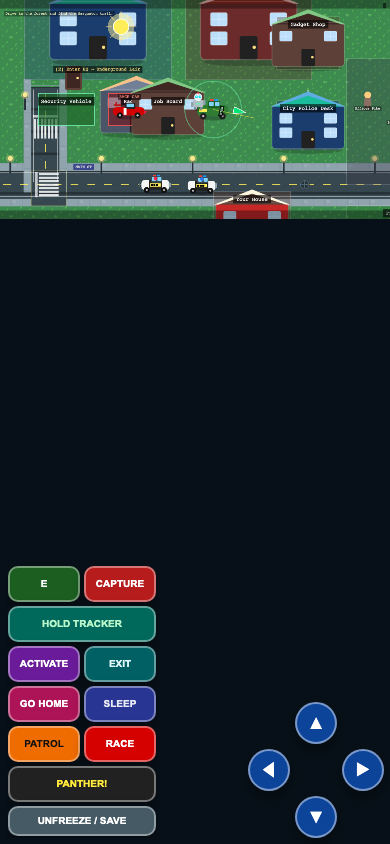
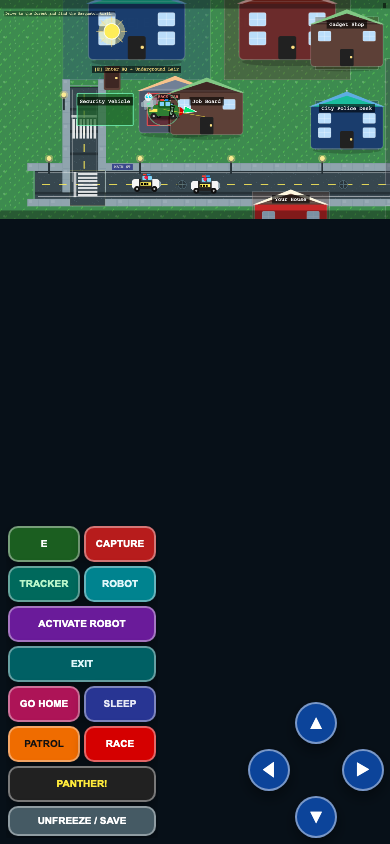
fix(v1.4.3): clear ROBOT activate that puts buddy outside
Add ROBOT / ACTIVATE ROBOT buttons that power tracker+robot and
place you outdoors with the partner already following.

Changed region(s): [[0.0, 0.0, 1.0, 0.2773], [0.0, 0.6161, 0.4, 0.8318], [0.9846, 0.2464, 1.0, 0.2773]]

diff --git a/src/game/scenes/GameScene.ts b/src/game/scenes/GameScene.ts
@@ -259,6 +259,11 @@ export class GameScene extends Phaser.Scene {
         this.mapOpen = false;
         this.doActivate();
       },
+      activateRobot: () => {
+        this.paused = false;
+        this.mapOpen = false;
+        this.doActivateRobot();
+      },
       enterCar: () => {
         this.paused = false;
         this.mapOpen = false;
@@ -2131,44 +2136,50 @@ export class GameScene extends Phaser.Scene {
   }
 
 
-  /** Activate tracker + robot partner (one tap can do both). */
-  private doActivate(): void {
-    if (!this.flags.inLair && (!this.flags.hasTracker || !this.flags.robotActive)) {
-      this.enterLair();
-    }
-
-    let didSomething = false;
+  /** Power up robot + tracker, then stand outside with robot following. */
+  private doActivateRobot(): void {
+    // Ensure gear
     if (!this.flags.hasTracker || !this.trackerHeld) {
       this.equipTracker(true);
-      this.setPhase(MissionPhase.HasTracker);
-      didSomething = true;
     }
-    if (!this.flags.robotActive) {
-      this.flags.robotActive = true;
-      this.robot.setTexture('robot_sheet', 0);
-      this.robot.setVisible(true);
-      this.robot.setPosition(this.player.x - 40, this.player.y);
-      this.robot.play('robot-idle', true);
-      this.setPhase(MissionPhase.RobotActive);
-      didSomething = true;
-    }
+    this.flags.robotActive = true;
+    this.robot.setTexture('robot_sheet', 0);
+    this.robot.play('robot-idle', true);
 
-    if (didSomething) {
-      audio.pickup();
-      this.statusLine = this.flags.inLair
-        ? 'Tracker + Robot ONLINE! Tap EXIT — robot follows you outside.'
-        : 'Tracker + Robot ONLINE! Robot is following you.';
-      if (!this.flags.inLair) this.syncRobotBesidePlayer();
-      setDomStatus(this.statusLine);
-      this.persistSave();
-      return;
-    }
+    // Always end outdoors so the player SEES the robot working
+    if (this.flags.inHouse) this.exitHouse();
+    if (this.flags.inJailBuilding) this.exitJail();
+    if (this.flags.inLair) this.exitLair();
+    // If still somehow indoors, force outdoor spawn
+    this.flags.inLair = false;
+    this.flags.inHouse = false;
+    this.flags.inJailBuilding = false;
+    this.indoorLayer.setVisible(false);
+    this.worldLayer.setVisible(true);
+    this.trailLayer.setVisible(true);
 
-    // Already online
-    if (!this.trackerHeld) this.equipTracker();
-    if (!this.flags.inLair) this.syncRobotBesidePlayer();
-    this.statusLine = 'Robot is with you! EXIT if indoors, then PATROL/RACE car.';
+    if (!this.flags.inVehicle) {
+      this.player.setPosition(SPAWN.playerOutdoor.x, SPAWN.playerOutdoor.y);
+      this.cameras.main.startFollow(this.player, true, 0.12, 0.12);
+      this.vehicle.setVisible(true);
+      if (this.raceCar) this.raceCar.setVisible(true);
+    }
+    this.sasquatch.setVisible(!this.flags.sasquatchJailed);
+    this.syncRobotBesidePlayer();
+    this.robot.setVisible(true);
+    this.robot.setDepth(9);
+    this.robot.play('robot-walk', true);
+    this.setPhase(MissionPhase.CanDrive);
+    audio.success();
+    this.statusLine = '🤖 ROBOT ACTIVATED! It is following you right now.';
     setDomStatus(this.statusLine);
+    this.persistSave();
+  }
+
+  /** Activate tracker + robot partner (one tap can do both). */
+  private doActivate(): void {
+    // Prefer the clear “robot online outside” path so activation always feels real
+    this.doActivateRobot();
   }
 
   /** Leave any indoor space so car / outdoor actions can't stack broken flags. */

diff --git a/src/ui/domOverlay.ts b/src/ui/domOverlay.ts
@@ -33,6 +33,7 @@ type EcraftApi = {
   interact?: () => void;
   capture?: () => void;
   activate?: () => void;
+  activateRobot?: () => void;
   enterCar?: () => void;
   enterRaceCar?: () => void;
   recover?: () => void;
@@ -153,6 +154,7 @@ export function installDomOverlay(): void {
     #ecraft-actions .cap { background: #b71c1c; font-size: 10px; }
     #ecraft-actions .car { background: #ef6c00; color: #111; }
     #ecraft-actions .actv { background: #6a1b9a; }
+    #ecraft-actions .bot { background: #00838f; color: #e0f7fa; font-size: 10px; }
     #ecraft-actions .race { background: #d50000; color: #fff; }
     #ecraft-actions .rec { background: #455a64; color: #fff; font-size: 10px; height: 34px; }
     #ecraft-actions .trk { background: #00695c; color: #b9f6ca; font-size: 10px; }
@@ -208,9 +210,10 @@ export function installDomOverlay(): void {
     <div id="ecraft-actions" aria-label="action buttons">
       <button type="button" class="act" id="btn-e">E</button>
       <button type="button" class="cap" id="btn-cap">CAPTURE</button>
-      <button type="button" class="trk wide" id="btn-tracker">HOLD TRACKER</button>
-      <button type="button" class="actv" id="btn-activate">ACTIVATE</button>
-      <button type="button" class="exit" id="btn-exit">EXIT</button>
+      <button type="button" class="trk" id="btn-tracker">TRACKER</button>
+      <button type="button" class="bot" id="btn-robot">ROBOT</button>
+      <button type="button" class="actv wide" id="btn-activate">ACTIVATE ROBOT</button>
+      <button type="button" class="exit wide" id="btn-exit">EXIT</button>
       <button type="button" class="home" id="btn-house">GO HOME</button>
       <button type="button" class="sleep" id="btn-sleep">SLEEP</button>
       <button type="button" class="car" id="btn-car">PATROL</button>
@@ -294,7 +297,8 @@ export function installDomOverlay(): void {
   bindAction('btn-e', 'interact', 'Interact');
   bindAction('btn-cap', 'capture', 'Capture');
   bindAction('btn-tracker', 'holdTracker', 'Holding Tracker');
-  bindAction('btn-activate', 'activate', 'Activate');
+  bindAction('btn-robot', 'activateRobot', 'Robot ON');
+  bindAction('btn-activate', 'activateRobot', 'Robot ON');
   bindAction('btn-exit', 'exitIndoor', 'Exited');
   bindAction('btn-house', 'enterHouse', 'Welcome home');
   bindAction('btn-sleep', 'sleep', 'Sleeping…');
@@ -315,7 +319,8 @@ export function installDomOverlay(): void {
         callApi('capture', 'Capture');
       }
       if (e.code === 'KeyC') callApi('enterCar', 'Patrol Car');
-      if (e.code === 'KeyF') callApi('activate', 'Activate');
+      if (e.code === 'KeyF') callApi('activateRobot', 'Robot ON');
+      if (e.code === 'KeyB') callApi('activateRobot', 'Robot ON');
       if (e.code === 'KeyT') callApi('holdTracker', 'Holding Tracker');
       if (e.code === 'KeyH') callApi('enterHouse', 'Welcome home');
       if (e.code === 'KeyZ') callApi('sleep', 'Sleeping…');

diff --git a/CHANGELOG.md b/CHANGELOG.md
@@ -1,5 +1,13 @@
 # Changelog
 
+## 1.4.3 — 2026-09-05 — ACTIVATE ROBOT (CLEAR)
+
+### Fixed
+- New **ROBOT** / **ACTIVATE ROBOT** buttons
+- One tap activates tracker + robot and puts you **outside with robot following**
+- No more “activated but stuck in lair so it looks broken”
+
+
 ## 1.4.2 — 2026-09-05 — ROBOT PARTNER WORKS
 
 ### Fixed
